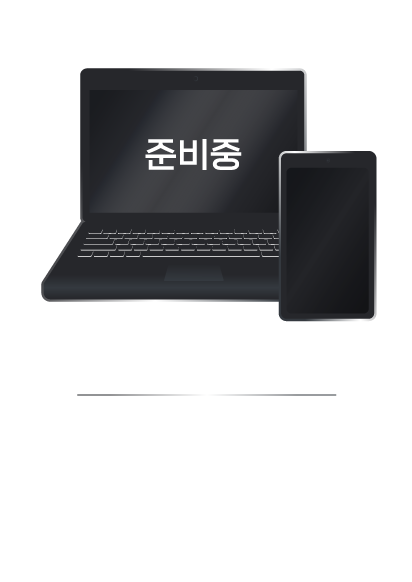
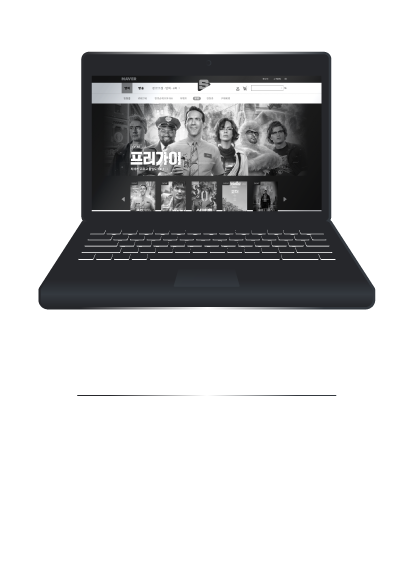
포폴추가

diff --git a/docs/pf.html b/docs/pf.html
@@ -77,13 +77,21 @@ var _0x5540=['metaKey','event','shiftKey','467012ulvaJz','229983hyzlIQ','97wuigq
       <div class="swiper-slide swiper-slide_1">
         <img class="bn_3_2_1" src="resource/img/bn_3_4_1.png" onmouseover="this.src='resource/img/bn_3_4_2.png'" onmouseout="this.src='resource/img/bn_3_4_1.png'">
         <a href="resource/img/bn_3_4_3.png" target='_blank'>
-        <img class="bn_3_1_2 cursor-pointer" src="resource/img/bn_3_1_3_1.png" onmouseover="this.src='resource/img/bn_3_1_3_2.png'" onmouseout="this.src='resource/img/bn_3_1_3_1.png'"></a>
+        <img class="bn_3_1_2 cursor-pointer" src="resource/img/bn_3_1_3_5.png" onmouseover="this.src='resource/img/bn_3_1_3_6.png'"
+          onmouseout="this.src='resource/img/bn_3_1_3_5.png'"></a>
       </div>
-            <!-- 어린왕자 -->
-            <div class="swiper-slide swiper-slide_1">
-        <img class="bn_3_2_1" src="resource/img/bn_3_5_1.png" onmouseover="this.src='resource/img/bn_3_5_1.png'" onmouseout="this.src='resource/img/bn_3_5_1.png'">
-        <a href="#" target='_blank'>
-        <img class="bn_3_1_2 cursor-pointer" src="resource/img/bn_3_1_3_1.png" onmouseover="this.src='resource/img/bn_3_1_3_2.png'" onmouseout="this.src='resource/img/bn_3_1_3_1.png'"></a>
+      <!-- 리뉴얼 사이트 -->
+      <div class="swiper-slide swiper-slide_1">
+        <img class="bn_3_2_1" src="resource/img/bn_3_5_1.png" onmouseover="this.src='resource/img/bn_3_5_2.png'"
+          onmouseout="this.src='resource/img/bn_3_5_1.png'">
+        <div class="bn_3_1_2_2">
+        <a href="resource/img/bn_3_5_1_1.png" target='_blank'>
+          <img class="bn_3_1_2_1 cursor-pointer" src="resource/img/bn_3_5_2_1.png" onmouseover="this.src='resource/img/bn_3_5_2_2.png'"
+          onmouseout="this.src='resource/img/bn_3_5_2_1.png'"></a>
+          <a href="resource/img/bn_3_5_1_2.png" target='_blank'>
+          <img class="bn_3_1_3 cursor-pointer"  src="resource/img/bn_3_5_3_1.png" onmouseover="this.src='resource/img/bn_3_5_3_2.png'"
+          onmouseout="this.src='resource/img/bn_3_5_3_1.png'"></a>
+        </div>
       </div>
     </div>
   </div>

diff --git a/docs/resource/common.js b/docs/resource/common.js
@@ -32,7 +32,7 @@ var swiper = new Swiper(".mySwiper", {
   spaceBetween: 30,
   loop: true,
   autoplay: {
-    delay: 2500,
+    delay: 1500,
     disableOnInteraction: false,
   },
 });

diff --git a/resource/common.js b/resource/common.js
@@ -32,7 +32,7 @@ var swiper = new Swiper(".mySwiper", {
   spaceBetween: 30,
   loop: true,
   autoplay: {
-    delay: 2500,
+    delay: 1500,
     disableOnInteraction: false,
   },
 });

diff --git a/pf.ssg.php b/pf.ssg.php
@@ -44,13 +44,21 @@ $pageCode = "pf";
       <div class="swiper-slide swiper-slide_1">
         <img class="bn_3_2_1" src="resource/img/bn_3_4_1.png" onmouseover="this.src='resource/img/bn_3_4_2.png'" onmouseout="this.src='resource/img/bn_3_4_1.png'">
         <a href="resource/img/bn_3_4_3.png" target='_blank'>
-        <img class="bn_3_1_2 cursor-pointer" src="resource/img/bn_3_1_3_1.png" onmouseover="this.src='resource/img/bn_3_1_3_2.png'" onmouseout="this.src='resource/img/bn_3_1_3_1.png'"></a>
+        <img class="bn_3_1_2 cursor-pointer" src="resource/img/bn_3_1_3_5.png" onmouseover="this.src='resource/img/bn_3_1_3_6.png'"
+          onmouseout="this.src='resource/img/bn_3_1_3_5.png'"></a>
       </div>
-            <!-- 어린왕자 -->
-            <div class="swiper-slide swiper-slide_1">
-        <img class="bn_3_2_1" src="resource/img/bn_3_5_1.png" onmouseover="this.src='resource/img/bn_3_5_1.png'" onmouseout="this.src='resource/img/bn_3_5_1.png'">
-        <a href="#" target='_blank'>
-        <img class="bn_3_1_2 cursor-pointer" src="resource/img/bn_3_1_3_1.png" onmouseover="this.src='resource/img/bn_3_1_3_2.png'" onmouseout="this.src='resource/img/bn_3_1_3_1.png'"></a>
+      <!-- 리뉴얼 사이트 -->
+      <div class="swiper-slide swiper-slide_1">
+        <img class="bn_3_2_1" src="resource/img/bn_3_5_1.png" onmouseover="this.src='resource/img/bn_3_5_2.png'"
+          onmouseout="this.src='resource/img/bn_3_5_1.png'">
+        <div class="bn_3_1_2_2">
+        <a href="resource/img/bn_3_5_1_1.png" target='_blank'>
+          <img class="bn_3_1_2_1 cursor-pointer" src="resource/img/bn_3_5_2_1.png" onmouseover="this.src='resource/img/bn_3_5_2_2.png'"
+          onmouseout="this.src='resource/img/bn_3_5_2_1.png'"></a>
+          <a href="resource/img/bn_3_5_1_2.png" target='_blank'>
+          <img class="bn_3_1_3 cursor-pointer"  src="resource/img/bn_3_5_3_1.png" onmouseover="this.src='resource/img/bn_3_5_3_2.png'"
+          onmouseout="this.src='resource/img/bn_3_5_3_1.png'"></a>
+        </div>
       </div>
     </div>
   </div>
